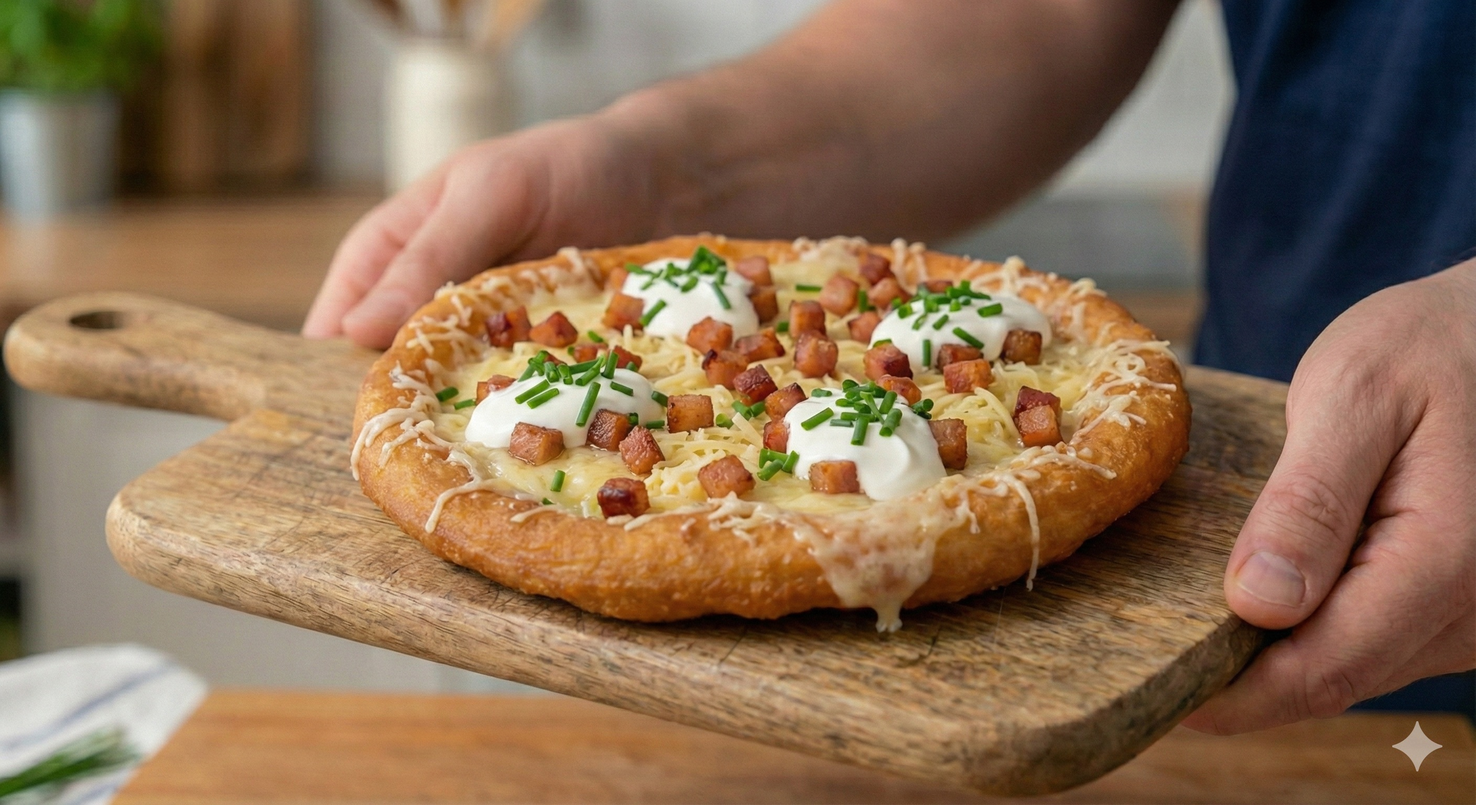
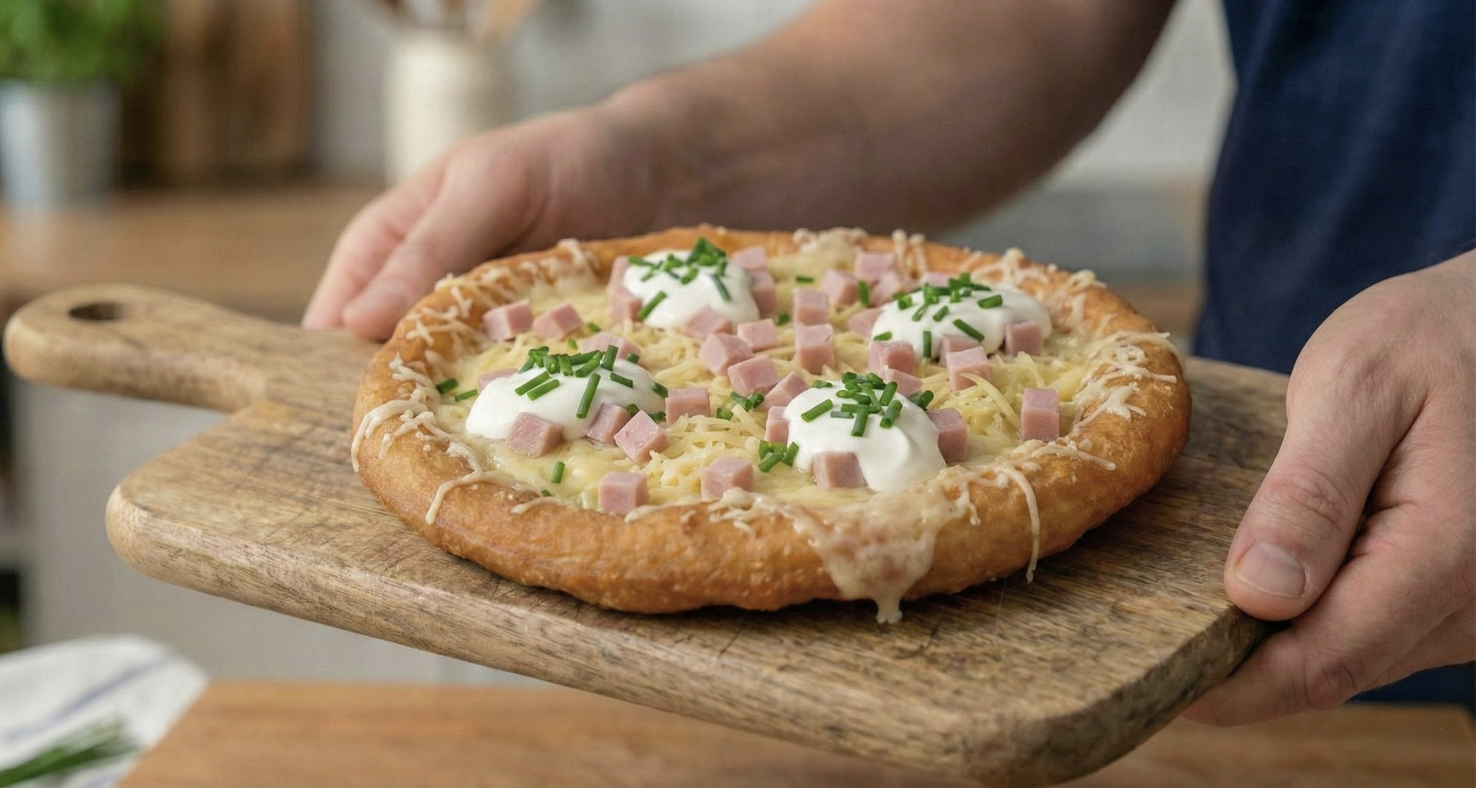
Menü-Updates: Preise, Beschreibungen, Allergene
- Swiss Special: Gruyère & Schinken statt Appenzeller & Speck
- Lángos Natur: CHF 9.–
- Sauerrahm & Käse: CHF 12.–
- Bio Schoko-Nuss: CHF 12.–, (ohne Palmöl) hinzugefügt
- Marille & Pflaume: BIO entfernt
- Allergene aktualisiert: Ei entfernt, Milch (G) bei Spiessen
- Allergen-Popup Fix: robustere Code-Verarbeitung

🤖 Generated with [Claude Code](https://claude.com/claude-code)

diff --git a/index.html b/index.html
@@ -172,8 +172,8 @@
                                         Der Klassiker - knusprig frittiert mit aromatischem Knoblauch und Meersalz.
                                     </p>
                                     <div class="menu-card-footer">
-                                        <span class="menu-card-price">CHF 8.–</span>
-                                        <button class="allergen-info-btn" data-product="Lángos Natur" data-allergens="A,B" aria-label="Allergene anzeigen">ⓘ</button>
+                                        <span class="menu-card-price">CHF 9.–</span>
+                                        <button class="allergen-info-btn" data-product="Lángos Natur" data-allergens="A,G" aria-label="Allergene anzeigen">ⓘ</button>
                                     </div>
                                 </div>
                             </article>
@@ -191,8 +191,8 @@
                                         Cremiger Sauerrahm und herzhafter Käse auf knusprigem Knoblauch-Lángos.
                                     </p>
                                     <div class="menu-card-footer">
-                                        <span class="menu-card-price">CHF 11.–</span>
-                                        <button class="allergen-info-btn" data-product="Sauerrahm & Käse" data-allergens="A,B,C" aria-label="Allergene anzeigen">ⓘ</button>
+                                        <span class="menu-card-price">CHF 12.–</span>
+                                        <button class="allergen-info-btn" data-product="Sauerrahm & Käse" data-allergens="A,G" aria-label="Allergene anzeigen">ⓘ</button>
                                     </div>
                                 </div>
                             </article>
@@ -200,53 +200,53 @@
                             <!-- Swiss Special -->
                             <article class="menu-card fade-up">
                                 <div class="menu-card-image">
-                                    <img src="images/langos-swiss-special.jpeg" alt="Swiss Special Lángos mit Appenzeller und Speck">
+                                    <img src="images/langos-swiss-special.jpeg" alt="Swiss Special Lángos mit Gruyère und Schinken">
                                 </div>
                                 <div class="menu-card-content">
                                     <span class="menu-card-category">🇨🇭 Special</span>
                                     <h3 class="menu-card-title">Swiss Special</h3>
-                                    <p class="menu-card-description" data-de="Appenzeller Käse, knuspriger Speck, Sauerrahm und frischer Schnittlauch." data-en="Appenzeller cheese, crispy bacon, sour cream and fresh chives.">
-                                        Appenzeller Käse, knuspriger Speck, Sauerrahm und frischer Schnittlauch.
+                                    <p class="menu-card-description" data-de="Gruyère Käse, herzhafter Schinken, Sauerrahm und frischer Schnittlauch." data-en="Gruyère cheese, savory ham, sour cream and fresh chives.">
+                                        Gruyère Käse, herzhafter Schinken, Sauerrahm und frischer Schnittlauch.
                                     </p>
                                     <div class="menu-card-footer">
                                         <span class="menu-card-price">CHF 13.–</span>
-                                        <button class="allergen-info-btn" data-product="Swiss Special" data-allergens="A,B,C" aria-label="Allergene anzeigen">ⓘ</button>
+                                        <button class="allergen-info-btn" data-product="Swiss Special" data-allergens="A,G" aria-label="Allergene anzeigen">ⓘ</button>
                                     </div>
                                 </div>
                             </article>
 
-                            <!-- Bio Marille -->
+                            <!-- Marille -->
                             <article class="menu-card fade-up">
                                 <div class="menu-card-image">
-                                    <img src="images/langos-marille.jpeg" alt="Lángos mit Bio Marillen-Marmelade">
+                                    <img src="images/langos-marille.jpeg" alt="Lángos mit Marillen-Marmelade">
                                 </div>
                                 <div class="menu-card-content">
                                     <span class="menu-card-category" data-de="Süss" data-en="Sweet">Süss</span>
-                                    <h3 class="menu-card-title" data-de="Bio Marille" data-en="Organic Apricot">Bio Marille</h3>
-                                    <p class="menu-card-description" data-de="Warmer Lángos mit feinster Bio-Marillen Marmelade." data-en="Warm Lángos with finest organic apricot jam.">
-                                        Warmer Lángos mit feinster Bio-Marillen Marmelade.
+                                    <h3 class="menu-card-title" data-de="Marille" data-en="Apricot">Marille</h3>
+                                    <p class="menu-card-description" data-de="Warmer Lángos mit feinster Marillen Marmelade." data-en="Warm Lángos with finest apricot jam.">
+                                        Warmer Lángos mit feinster Marillen Marmelade.
                                     </p>
                                     <div class="menu-card-footer">
                                         <span class="menu-card-price">CHF 10.–</span>
-                                        <button class="allergen-info-btn" data-product="Bio Marille" data-allergens="A,B" aria-label="Allergene anzeigen">ⓘ</button>
+                                        <button class="allergen-info-btn" data-product="Marille" data-allergens="A,G" aria-label="Allergene anzeigen">ⓘ</button>
                                     </div>
                                 </div>
                             </article>
 
-                            <!-- Bio Pflaume -->
+                            <!-- Pflaume -->
                             <article class="menu-card fade-up">
                                 <div class="menu-card-image">
-                                    <img src="images/langos-pflaume.jpeg" alt="Lángos mit Bio Pflaumen-Marmelade">
+                                    <img src="images/langos-pflaume.jpeg" alt="Lángos mit Pflaumen-Marmelade">
                                 </div>
                                 <div class="menu-card-content">
                                     <span class="menu-card-category" data-de="Süss" data-en="Sweet">Süss</span>
-                                    <h3 class="menu-card-title" data-de="Bio Pflaume" data-en="Organic Plum">Bio Pflaume</h3>
-                                    <p class="menu-card-description" data-de="Süss-säuerliche Bio-Pflaumen-Marmelade auf knusprigem Lángos." data-en="Sweet and tangy organic plum jam on crispy Lángos.">
-                                        Süss-säuerliche Bio-Pflaumen-Marmelade auf knusprigem Lángos.
+                                    <h3 class="menu-card-title" data-de="Pflaume" data-en="Plum">Pflaume</h3>
+                                    <p class="menu-card-description" data-de="Süss-säuerliche Pflaumen-Marmelade auf knusprigem Lángos." data-en="Sweet and tangy plum jam on crispy Lángos.">
+                                        Süss-säuerliche Pflaumen-Marmelade auf knusprigem Lángos.
                                     </p>
                                     <div class="menu-card-footer">
                                         <span class="menu-card-price">CHF 10.–</span>
-                                        <button class="allergen-info-btn" data-product="Bio Pflaume" data-allergens="A,B" aria-label="Allergene anzeigen">ⓘ</button>
+                                        <button class="allergen-info-btn" data-product="Pflaume" data-allergens="A,G" aria-label="Allergene anzeigen">ⓘ</button>
                                     </div>
                                 </div>
                             </article>
@@ -259,12 +259,12 @@
                                 <div class="menu-card-content">
                                     <span class="menu-card-category" data-de="Süss" data-en="Sweet">Süss</span>
                                     <h3 class="menu-card-title" data-de="Bio Schoko-Nuss" data-en="Organic Choco-Nut">Bio Schoko-Nuss</h3>
-                                    <p class="menu-card-description" data-de="Cremige Haselnuss-Nougat Creme, bestäubt mit feinem Puderzucker." data-en="Creamy hazelnut-nougat cream, dusted with fine powdered sugar.">
-                                        Cremige Haselnuss-Nougat Creme, bestäubt mit feinem Puderzucker.
+                                    <p class="menu-card-description" data-de="Cremige Haselnuss-Nougat Creme (ohne Palmöl), bestäubt mit feinem Puderzucker." data-en="Creamy hazelnut-nougat cream (palm oil free), dusted with fine powdered sugar.">
+                                        Cremige Haselnuss-Nougat Creme (ohne Palmöl), bestäubt mit feinem Puderzucker.
                                     </p>
                                     <div class="menu-card-footer">
-                                        <span class="menu-card-price">CHF 10.–</span>
-                                        <button class="allergen-info-btn" data-product="Bio Schoko-Nuss" data-allergens="A,B,C,H" aria-label="Allergene anzeigen">ⓘ</button>
+                                        <span class="menu-card-price">CHF 12.–</span>
+                                        <button class="allergen-info-btn" data-product="Bio Schoko-Nuss" data-allergens="A,H" aria-label="Allergene anzeigen">ⓘ</button>
                                     </div>
                                 </div>
                             </article>
@@ -288,7 +288,7 @@
                                     </p>
                                     <div class="menu-card-footer">
                                         <span class="menu-card-price">CHF 8.–</span>
-                                        <button class="allergen-info-btn" data-product="Bananen-Trauben-Spiess" data-allergens="H" aria-label="Allergene anzeigen">ⓘ</button>
+                                        <button class="allergen-info-btn" data-product="Bananen-Trauben-Spiess" data-allergens="G,H" aria-label="Allergene anzeigen">ⓘ</button>
                                     </div>
                                 </div>
                             </article>
@@ -307,7 +307,7 @@
                                     </p>
                                     <div class="menu-card-footer">
                                         <span class="menu-card-price">CHF 10.–</span>
-                                        <button class="allergen-info-btn" data-product="Erdbeerspiess" data-allergens="H" aria-label="Allergene anzeigen">ⓘ</button>
+                                        <button class="allergen-info-btn" data-product="Erdbeerspiess" data-allergens="G,H" aria-label="Allergene anzeigen">ⓘ</button>
                                     </div>
                                 </div>
                             </article>
@@ -326,7 +326,7 @@
                                     </p>
                                     <div class="menu-card-footer">
                                         <span class="menu-card-price">CHF 9.–</span>
-                                        <button class="allergen-info-btn" data-product="Erdbeer-Trauben-Spiess" data-allergens="H" aria-label="Allergene anzeigen">ⓘ</button>
+                                        <button class="allergen-info-btn" data-product="Erdbeer-Trauben-Spiess" data-allergens="G,H" aria-label="Allergene anzeigen">ⓘ</button>
                                     </div>
                                 </div>
                             </article>

diff --git a/js/main.js b/js/main.js
@@ -286,14 +286,12 @@
         const allergenInfo = {
             de: {
                 'A': { code: 'A', name: 'Gluten', class: 'gluten' },
-                'B': { code: 'B', name: 'Ei', class: 'egg' },
-                'C': { code: 'C', name: 'Milch', class: 'milk' },
+                'G': { code: 'G', name: 'Milch', class: 'milk' },
                 'H': { code: 'H', name: 'Nüsse', class: 'nuts' }
             },
             en: {
                 'A': { code: 'A', name: 'Gluten', class: 'gluten' },
-                'B': { code: 'B', name: 'Egg', class: 'egg' },
-                'C': { code: 'C', name: 'Milk', class: 'milk' },
+                'G': { code: 'G', name: 'Milk', class: 'milk' },
                 'H': { code: 'H', name: 'Nuts', class: 'nuts' }
             }
         };
@@ -333,14 +331,15 @@
             const lang = getCurrentLang();
             const langAllergens = allergenInfo[lang];
 
-            // Create badges HTML
-            const badgesHtml = allergens.map(code => {
+            // Create badges HTML (filter out unknown allergens)
+            const validAllergens = allergens.filter(code => langAllergens[code]);
+            const badgesHtml = validAllergens.map(code => {
                 const info = langAllergens[code];
                 return `<span class="allergen-badge ${info.class}">${info.code}</span>`;
             }).join('');
 
             // Create legend text
-            const legendText = allergens.map(code => {
+            const legendText = validAllergens.map(code => {
                 const info = langAllergens[code];
                 return `${info.code} = ${info.name}`;
             }).join(', ');
@@ -372,8 +371,8 @@
         });
 
         // Close popup when clicking outside
-        document.addEventListener('click', () => {
-            if (activePopup) {
+        document.addEventListener('click', (e) => {
+            if (activePopup && !e.target.closest('.allergen-info-btn') && !e.target.closest('.allergen-popup')) {
                 activePopup.remove();
                 activePopup = null;
             }
